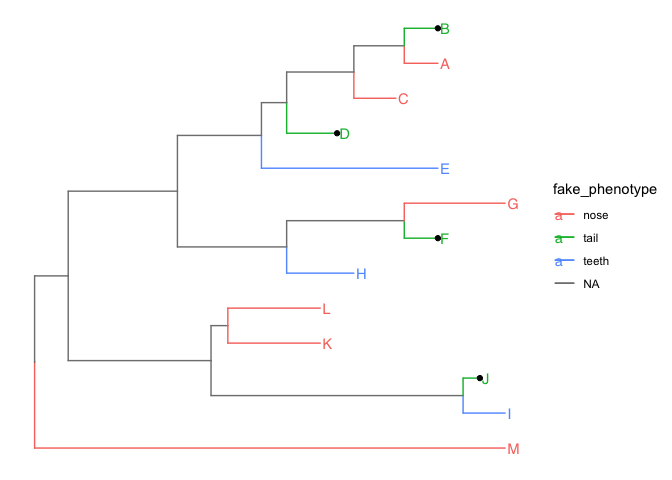
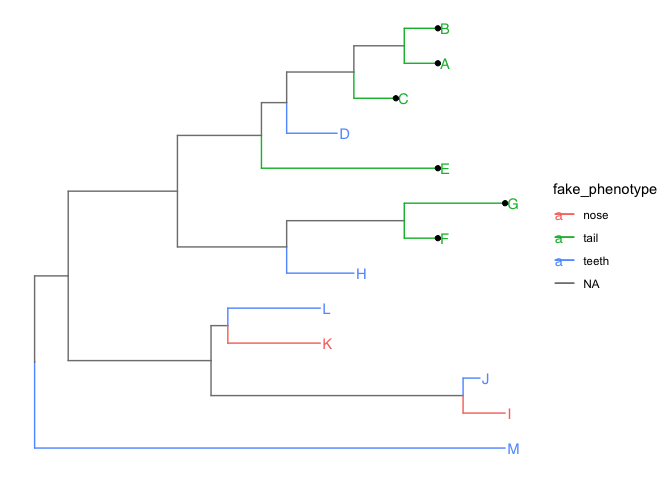
trying gheatmap for trees

diff --git a/Rscripts/phylogenetics/ggtree_demo.md b/Rscripts/phylogenetics/ggtree_demo.md
@@ -70,19 +70,19 @@ tip_dat
     ## # A tibble: 13 × 4
     ##    taxon fake_height fake_phenotype fake_phenotype2
     ##    <chr>       <dbl> <chr>          <chr>          
-    ##  1 A           101.  nose           fur            
-    ##  2 B            93.4 tail           scales         
-    ##  3 C           124.  nose           spikes         
-    ##  4 D            90.9 tail           scales         
-    ##  5 E            94.4 teeth          spikes         
-    ##  6 F            90.3 tail           scales         
-    ##  7 G            75.2 nose           spikes         
-    ##  8 H            84.0 teeth          spikes         
-    ##  9 I            83.8 teeth          spikes         
-    ## 10 J            71.2 tail           fur            
-    ## 11 K            46.2 nose           spikes         
-    ## 12 L            95.6 nose           spikes         
-    ## 13 M            66.2 nose           spikes
+    ##  1 A            77.3 tail           scales         
+    ##  2 B            49.1 tail           spikes         
+    ##  3 C            81.8 tail           fur            
+    ##  4 D           143.  teeth          fur            
+    ##  5 E           106.  tail           fur            
+    ##  6 F            95.2 tail           scales         
+    ##  7 G           104.  tail           spikes         
+    ##  8 H            90.2 teeth          scales         
+    ##  9 I            86.8 nose           spikes         
+    ## 10 J           115.  teeth          spikes         
+    ## 11 K           128.  nose           fur            
+    ## 12 L            56.6 teeth          spikes         
+    ## 13 M            77.8 teeth          fur
 
 ## combine tree and tbl
 
@@ -135,16 +135,16 @@ nwk_tree_with_info
     ## # The 'node', 'label' and 'isTip' are from the phylo tree.
     ##     node label isTip fake_height fake_phenotype fake_phenotype2
     ##    <int> <chr> <lgl>       <dbl> <chr>          <chr>          
-    ##  1     1 A     TRUE        101.  nose           fur            
-    ##  2     2 B     TRUE         93.4 tail           scales         
-    ##  3     3 C     TRUE        124.  nose           spikes         
-    ##  4     4 D     TRUE         90.9 tail           scales         
-    ##  5     5 E     TRUE         94.4 teeth          spikes         
-    ##  6     6 F     TRUE         90.3 tail           scales         
-    ##  7     7 G     TRUE         75.2 nose           spikes         
-    ##  8     8 H     TRUE         84.0 teeth          spikes         
-    ##  9     9 I     TRUE         83.8 teeth          spikes         
-    ## 10    10 J     TRUE         71.2 tail           fur            
+    ##  1     1 A     TRUE         77.3 tail           scales         
+    ##  2     2 B     TRUE         49.1 tail           spikes         
+    ##  3     3 C     TRUE         81.8 tail           fur            
+    ##  4     4 D     TRUE        143.  teeth          fur            
+    ##  5     5 E     TRUE        106.  tail           fur            
+    ##  6     6 F     TRUE         95.2 tail           scales         
+    ##  7     7 G     TRUE        104.  tail           spikes         
+    ##  8     8 H     TRUE         90.2 teeth          scales         
+    ##  9     9 I     TRUE         86.8 nose           spikes         
+    ## 10    10 J     TRUE        115.  teeth          spikes         
     ## # ℹ 15 more rows
 
 ## plot tree with annotations
@@ -161,11 +161,11 @@ nwk_tree_with_info %>%
 
 ![](ggtree_demo_files/figure-gfm/unnamed-chunk-6-1.png)<!-- -->
 
-## add heatmap to the right side of a tree
+# add heatmap to the right side of a tree
 
 gheatmap is the function for this
 
-### explore gheatmap demo code from ggtree book
+## explore gheatmap demo code from ggtree book
 
 gheatmap demo code from the [ggtree online
 book](http://yulab-smu.top/treedata-book/chapter7.html#gheatmap):
@@ -250,7 +250,7 @@ gheatmap(p, genotype, offset=8, width=0.6,
 
 ![](ggtree_demo_files/figure-gfm/unnamed-chunk-11-1.png)<!-- -->
 
-### gheatmap example with my fake tree and fake data
+## gheatmap example with my fake tree and fake data
 
 ``` r
 ## imagine we're plotting amino acid changes, like Maria's trying to do
